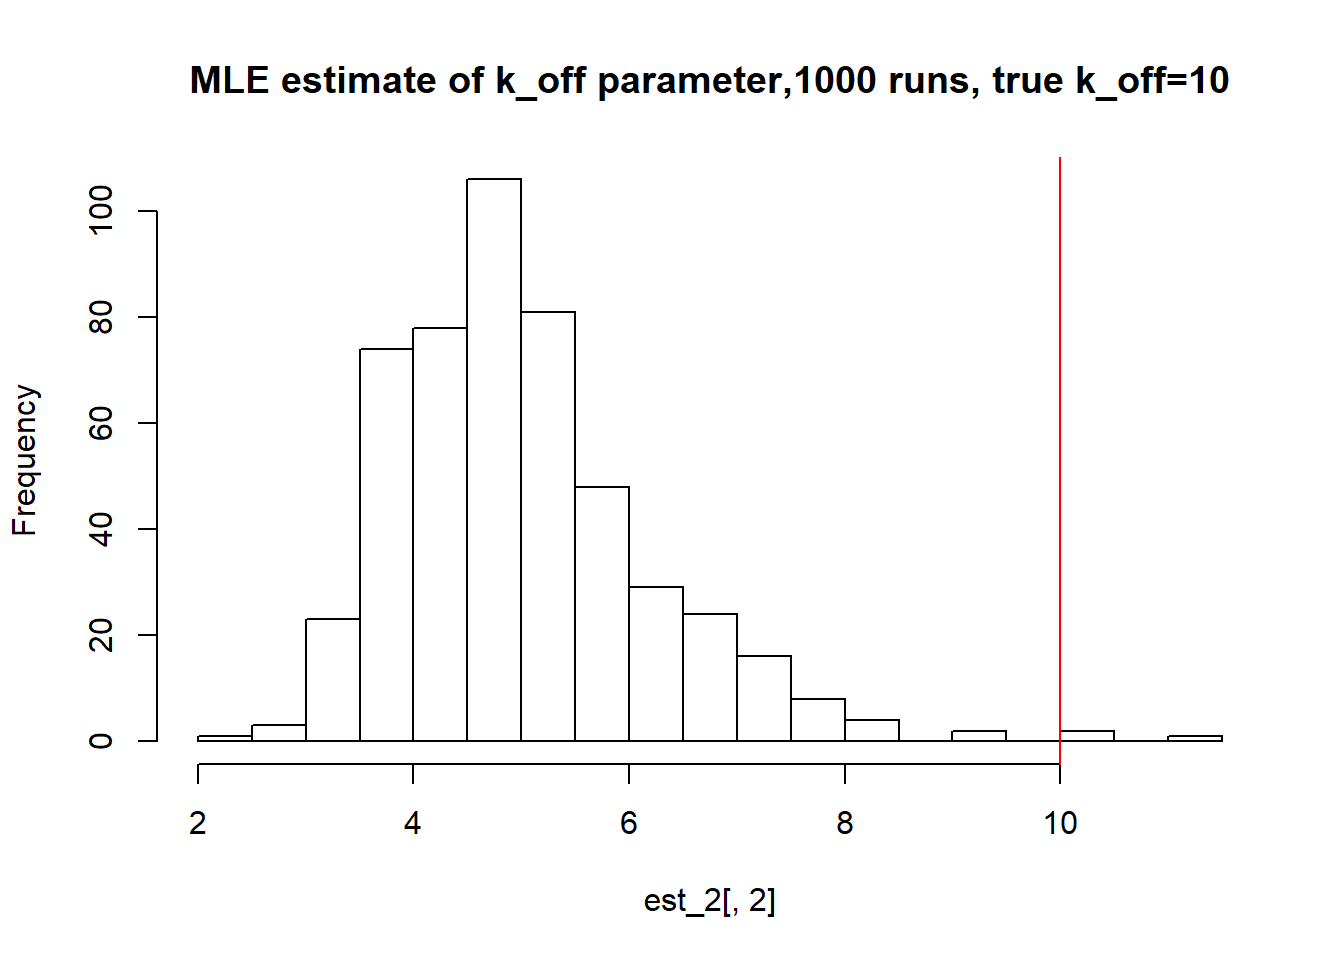
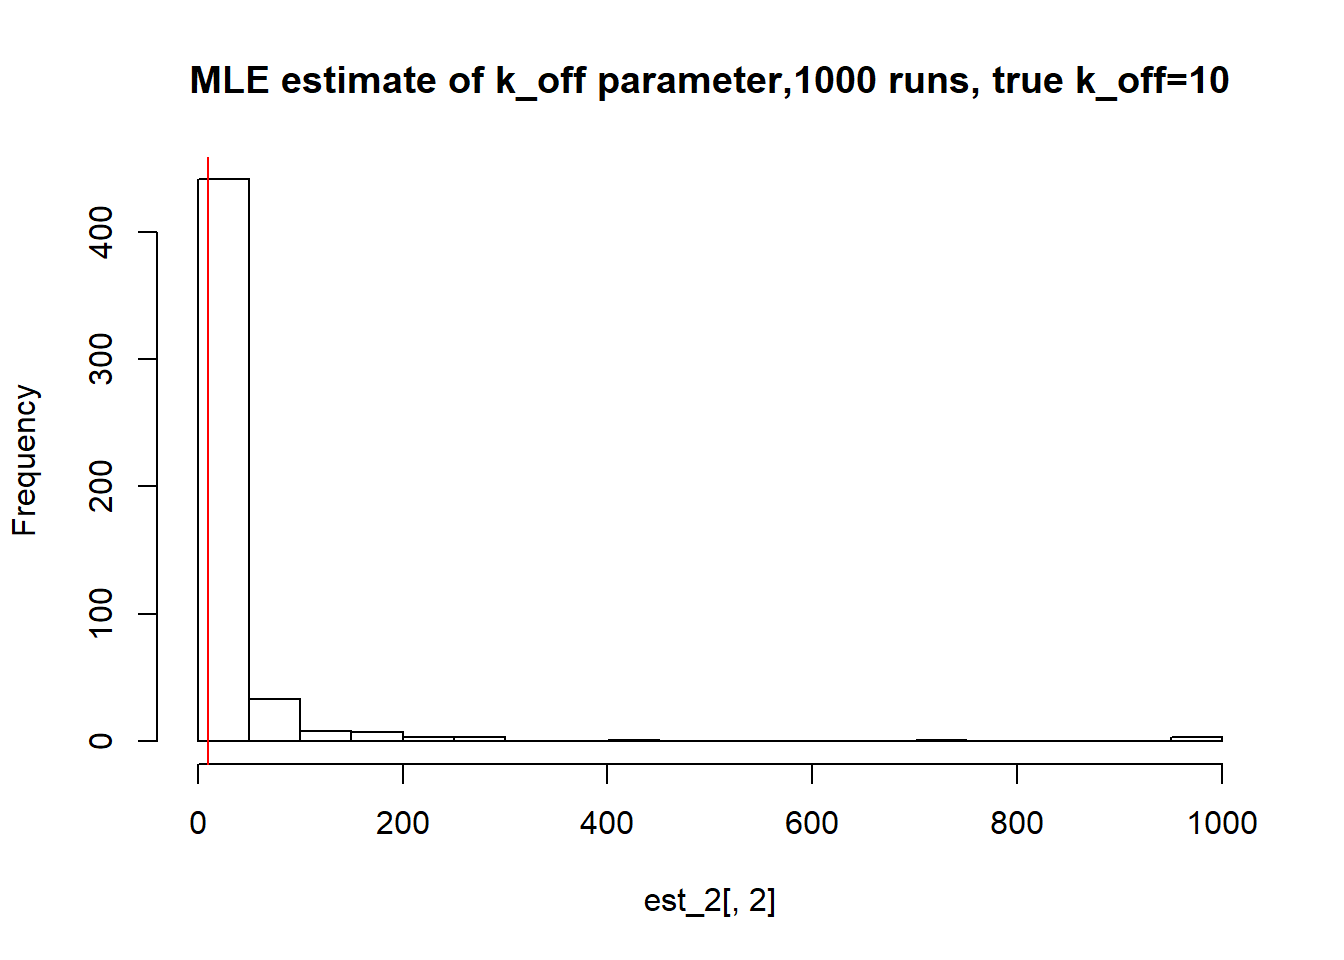
Build site.

diff --git a/docs/MLE_bootstrap.html b/docs/MLE_bootstrap.html
@@ -12,7 +12,7 @@
 <meta name="author" content="Margarita Orlova" />
 
 
-<title>MLE_bootrap</title>
+<title>MLE_bootstrap</title>
 
 <script src="site_libs/jquery-1.11.3/jquery.min.js"></script>
 <meta name="viewport" content="width=device-width, initial-scale=1" />
@@ -316,7 +316,7 @@ div.section {
 
 
 
-<h1 class="title toc-ignore">MLE_bootrap</h1>
+<h1 class="title toc-ignore">MLE_bootstrap</h1>
 <h4 class="author"><em>Margarita Orlova</em></h4>
 <h4 class="date"><em>December 4, 2019</em></h4>
 
@@ -458,10 +458,10 @@ analysis/MLE_bootstrap.py
 <div class="panel panel-default">
 <div class="panel-heading">
 <p class="panel-title">
-<a data-toggle="collapse" data-parent="#workflowr-checks" href="#strongRepositoryversionstrongahrefhttpsgithubcomMargareth2407ThesissingleRNAtreeb2ccbba7970bde9c3d67cb275b15cf956fad218etargetblankb2ccbbaa"> <span class="glyphicon glyphicon-ok text-success" aria-hidden="true"></span> <strong>Repository version:</strong> <a href="https://github.com/Margareth2407/Thesis_single_RNA/tree/b2ccbba7970bde9c3d67cb275b15cf956fad218e" target="_blank">b2ccbba</a> </a>
+<a data-toggle="collapse" data-parent="#workflowr-checks" href="#strongRepositoryversionstrongahrefhttpsgithubcomMargareth2407ThesissingleRNAtree901335556b71778deb4d4fdd1eaf2a6a512349e1targetblank9013355a"> <span class="glyphicon glyphicon-ok text-success" aria-hidden="true"></span> <strong>Repository version:</strong> <a href="https://github.com/Margareth2407/Thesis_single_RNA/tree/901335556b71778deb4d4fdd1eaf2a6a512349e1" target="_blank">9013355</a> </a>
 </p>
 </div>
[2 lines of base64/hex data omitted]
 <div class="panel-body">
 <p>
 Great! You are using Git for version control. Tracking code development and connecting the code version to the results is critical for reproducibility. The version displayed above was the version of the Git repository at the time these results were generated. <br><br> Note that you need to be careful to ensure that all relevant files for the analysis have been committed to Git prior to generating the results (you can use <code>wflow_publish</code> or <code>wflow_git_commit</code>). workflowr only checks the R Markdown file, but you know if there are other scripts or data files that it depends on. Below is the status of the Git repository when the results were generated:
@@ -510,30 +510,30 @@ There are no past versions. Publish this analysis with <code>wflow_publish()</co
 <h2>I) Small <span class="math inline">\(k_{on}\)</span> and <span class="math inline">\(k_{off}\)</span> case:</h2>
 <pre><code>Warning: package &#39;robustbase&#39; was built under R version 3.5.1</code></pre>
 <p><img src="figure/MLE_bootstrap.Rmd/unnamed-chunk-2-1.png" width="672" style="display: block; margin: auto;" /><img src="figure/MLE_bootstrap.Rmd/unnamed-chunk-2-2.png" width="672" style="display: block; margin: auto;" /><img src="figure/MLE_bootstrap.Rmd/unnamed-chunk-2-3.png" width="672" style="display: block; margin: auto;" /></p>
-<pre><code>[1] &quot;true k_on is 0.1; k_on mean 0.092 k_on median 0.092&quot;</code></pre>
-<pre><code>[1] &quot;true k_off is 0.1; k_off mean 0.095 k_off median 0.095&quot;</code></pre>
-<pre><code>[1] &quot;true k_r is 100; k_r mean 99.709 k_r median 99.726&quot;</code></pre>
+<pre><code>[1] &quot;true k_on is 0.1; k_on mean 0.103 k_on median 0.103&quot;</code></pre>
+<pre><code>[1] &quot;true k_off is 0.1; k_off mean 0.101 k_off median 0.1&quot;</code></pre>
+<pre><code>[1] &quot;true k_r is 100; k_r mean 100.37 k_r median 100.381&quot;</code></pre>
 </div>
 <div id="ii-large-k_on-and-k_off-case" class="section level2">
 <h2>II) Large <span class="math inline">\(k_{on}\)</span> and <span class="math inline">\(k_{off}\)</span> case:</h2>
 <p><img src="figure/MLE_bootstrap.Rmd/unnamed-chunk-3-1.png" width="672" style="display: block; margin: auto;" /><img src="figure/MLE_bootstrap.Rmd/unnamed-chunk-3-2.png" width="672" style="display: block; margin: auto;" /><img src="figure/MLE_bootstrap.Rmd/unnamed-chunk-3-3.png" width="672" style="display: block; margin: auto;" /></p>
-<pre><code>[1] &quot;true k_on is 10; k_on mean 7.303 k_on median 7.262&quot;</code></pre>
-<pre><code>[1] &quot;true k_off is 10; k_off mean 5.006 k_off median 4.828&quot;</code></pre>
-<pre><code>[1] &quot;true k_r is 100; k_r mean 82.545 k_r median 82.146&quot;</code></pre>
+<pre><code>[1] &quot;true k_on is 10; k_on mean 12.385 k_on median 12.056&quot;</code></pre>
+<pre><code>[1] &quot;true k_off is 10; k_off mean 38.305 k_off median 20.413&quot;</code></pre>
+<pre><code>[1] &quot;true k_r is 100; k_r mean 205.323 k_r median 141.346&quot;</code></pre>
 </div>
 <div id="iii-large-value-if-k_off-and-small-k_on-case" class="section level2">
 <h2>III) Large value if <span class="math inline">\(k_{off}\)</span> and small <span class="math inline">\(k_{on}\)</span> case:</h2>
 <p><img src="figure/MLE_bootstrap.Rmd/unnamed-chunk-4-1.png" width="672" style="display: block; margin: auto;" /><img src="figure/MLE_bootstrap.Rmd/unnamed-chunk-4-2.png" width="672" style="display: block; margin: auto;" /><img src="figure/MLE_bootstrap.Rmd/unnamed-chunk-4-3.png" width="672" style="display: block; margin: auto;" /></p>
-<pre><code>[1] &quot;true k_on is 1; k_on mean 1.229 k_on median 1.229&quot;</code></pre>
-<pre><code>[1] &quot;true k_off is 10; k_off mean 83.956 k_off median 68.419&quot;</code></pre>
-<pre><code>[1] &quot;true k_r is 100; k_r mean 591.887 k_r median 490.192&quot;</code></pre>
+<pre><code>[1] &quot;true k_on is 1; k_on mean 0.84 k_on median 0.84&quot;</code></pre>
+<pre><code>[1] &quot;true k_off is 10; k_off mean 4.527 k_off median 4.427&quot;</code></pre>
+<pre><code>[1] &quot;true k_r is 100; k_r mean 58.812 k_r median 57.829&quot;</code></pre>
 </div>
 <div id="iv-small-value-if-k_off-and-big-k_on" class="section level2">
 <h2>IV) Small value if <span class="math inline">\(k_{off}\)</span> and big <span class="math inline">\(k_{on}\)</span></h2>
 <p><img src="figure/MLE_bootstrap.Rmd/unnamed-chunk-5-1.png" width="672" style="display: block; margin: auto;" /><img src="figure/MLE_bootstrap.Rmd/unnamed-chunk-5-2.png" width="672" style="display: block; margin: auto;" /><img src="figure/MLE_bootstrap.Rmd/unnamed-chunk-5-3.png" width="672" style="display: block; margin: auto;" /></p>
-<pre><code>[1] &quot;true k_on is 10; k_on mean 2.807 k_on median 2.587&quot;</code></pre>
-<pre><code>[1] &quot;true k_off is 1; k_off mean 0.097 k_off median 0.041&quot;</code></pre>
-<pre><code>[1] &quot;true k_r is 100; k_r mean 92.62 k_r median 92.512&quot;</code></pre>
+<pre><code>[1] &quot;true k_on is 10; k_on mean 19.731 k_on median 18.84&quot;</code></pre>
+<pre><code>[1] &quot;true k_off is 1; k_off mean 3.015 k_off median 2.58&quot;</code></pre>
+<pre><code>[1] &quot;true k_r is 100; k_r mean 105.65 k_r median 105.178&quot;</code></pre>
 <br>
 <p>
 <button type="button" class="btn btn-default btn-workflowr btn-workflowr-sessioninfo" data-toggle="collapse" data-target="#workflowr-sessioninfo" style="display: block;">
